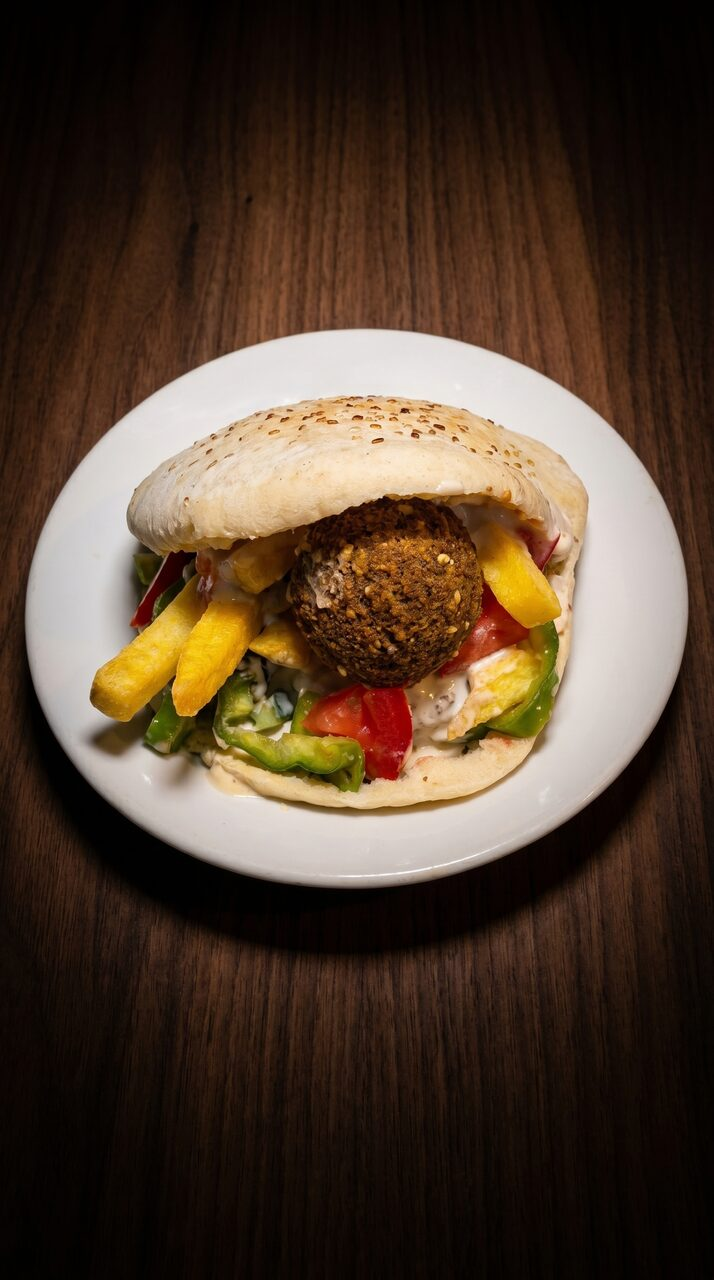
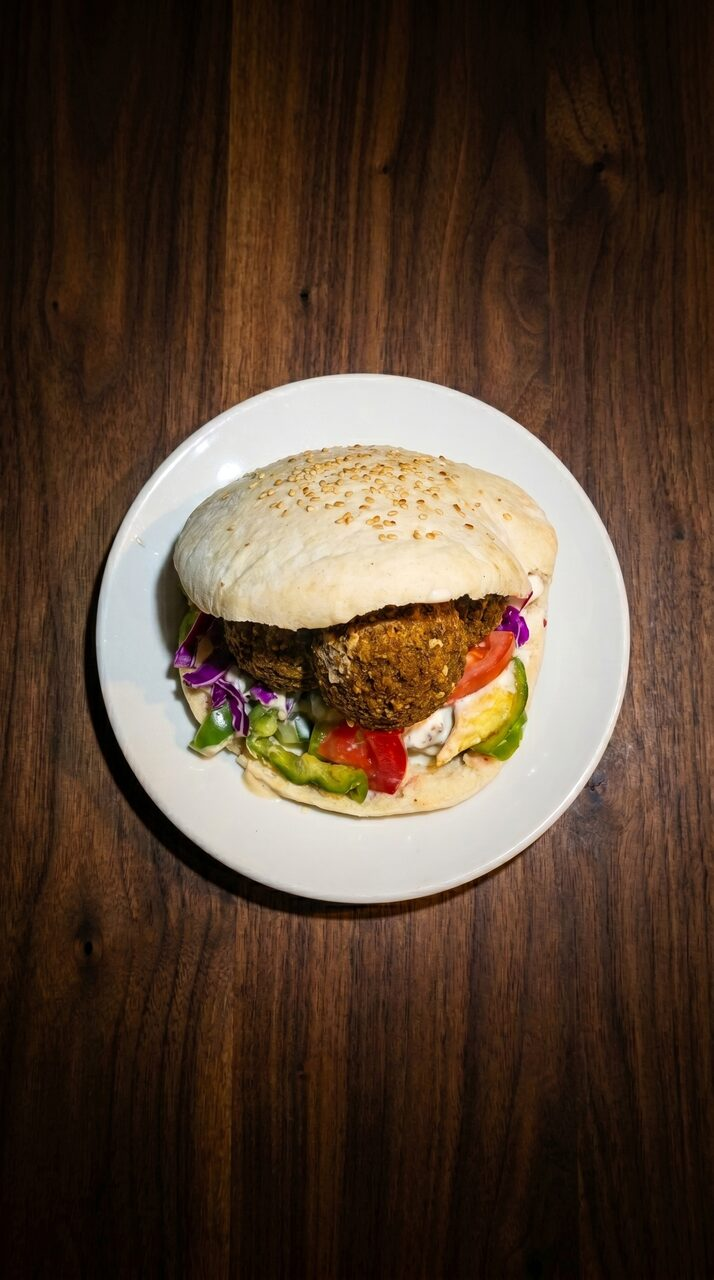
Falafel Sandvic yeni foto + Super Falafel malzemeleri + Bademli Hummus fiyat

diff --git a/script.js b/script.js
@@ -250,7 +250,7 @@ const menuData = [
     price: "₺230,00",
     image: "./images/super-falafel-sandvic.jpg",
     shortDescription: "Bol falafel, patlıcan, çıtır patates ve özel soslarla zenginleştirilmiş doyurucu süper sandviç.",
-    ingredients: ["Çıtır falafel", "Patlıcan", "Çıtır patates", "Taze sebzeler", "Özel sos", "İnce ekmek"],
+    ingredients: ["Hummus", "Falafel", "Tahin sos", "Salata", "Kızarmış patlıcan", "Çıtır patates"],
     allergens: ["Gluten içerir", "Susam içerir", "Alerjen bilgisi için lütfen personele danışınız"],
     tags: ["⭐ Popüler"],
   },
@@ -267,7 +267,7 @@ const menuData = [
   {
     name: "Bademli Hummus Fatte",
     category: "Hummus Menü",
-    price: "₺472,22",
+    price: "₺350,00",
     image: "./images/bademli-hummus-fatte.jpg",
     shortDescription: "Kavrulmuş badem, taze ekmek parçaları ve özel soslarla zenginleşen premium hummus.",
     ingredients: ["Hummus", "Kavrulmuş bademler", "Taze ekmek parçaları", "Özel soslar"],